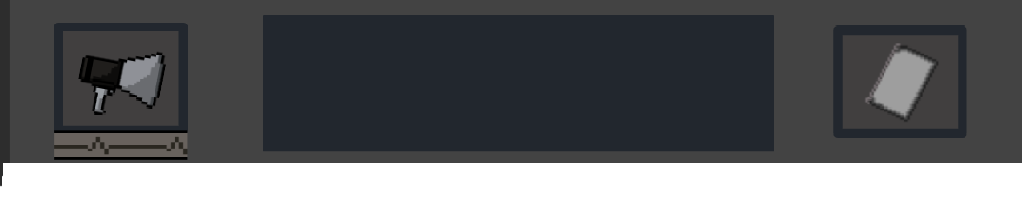
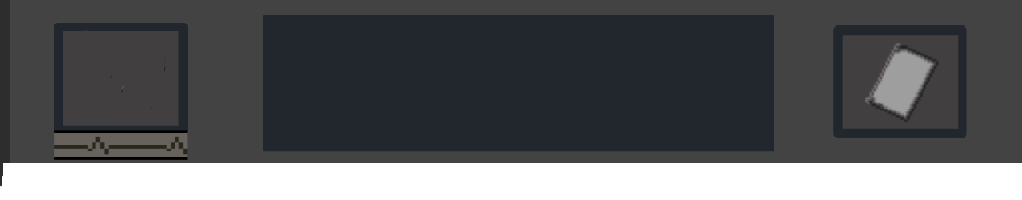
animacion reloj

Changed region(s): [[0.0607, 0.27, 0.182, 0.57]]

diff --git a/demoPhaser/boot.js b/demoPhaser/boot.js
@@ -29,12 +29,14 @@ export default class Boot extends Phaser.Scene {
     this.load.image('menuprincipal', 'menuprincipal.png');
     this.load.image('menuopciones', 'menuopciones.png');
     this.load.image('creditos', 'creditos.png');
+    
 
     this.load.spritesheet('checkbox', 'checkbox.png', { frameWidth: 48, frameHeight: 48 });
     this.load.spritesheet('botones', 'botones.png', { frameWidth: 240, frameHeight: 48 });
     this.load.spritesheet('background', 'backgroundspritesheet.png', { frameWidth: 352, frameHeight: 352 });
     this.load.spritesheet('npcs', 'npcspritesheet.png', { frameWidth: 115, frameHeight: 224 });
     this.load.spritesheet('objects', 'objectsspritesheet.png', { frameWidth: 192, frameHeight: 192 });
+    this.load.spritesheet('clockanim','clockanim.png',{frameWidth: 110, frameHeight: 110 });
     
     this.load.setPath('sonidos/');
     this.load.audio('suspenseFondo', 'suspense.mp3');

diff --git a/demoPhaser/Utils/clock.js b/demoPhaser/Utils/clock.js
@@ -9,7 +9,7 @@
 
 import SelectKillerScene from "../Test/selectkillerscene.js";
 
-  const Total_Time = 2;
+  const Total_Time = 12;
 
 export default class Clock 
 {
@@ -59,13 +59,15 @@ q
     //Método para mostrar el tiempo en pantalla
     showTime(scenenow) 
     {   
-        this.label = null;
+
+        this.scene.scene.get(scenenow).add.sprite(45,35,'clockanim',[this.time]);
+       /* this.label = null;
         this.label = this.scene.scene.get(scenenow).add.text(10, 2, "",
         { fontFamily: 'Georgia, "Goudy Bookletter 1911", Times, serif' }).setDepth(1); 
         this.label.text = "        "; //Borra el tiempo anterior
         this.label = this.scene.scene.get(scenenow).add.text(10, 2, "",
     { fontFamily: 'Georgia, "Goudy Bookletter 1911", Times, serif' }).setDepth(1); 
-        this.label.text = "Time: " + this.time;
+        this.label.text = "Time: " + this.time;*/
     }
 
     outOfTime()

diff --git a/demoPhaser/End/goodend.js b/demoPhaser/End/goodend.js
@@ -3,5 +3,11 @@ import Wagon from "../Wagons/wagon.js";
 export default class GoodEnd extends Wagon {
     constructor() { 
       super('goodend', true,43, 41, 43, 'clasealta', 'locomotora',);
+      
+    }
+    spawnNPCs()
+    {this.game.sound.stopAll();
+      this.musica = this.sound.add('goodmusic', {volume: this.game.sound.volume * 0.5, loop: true});
+      this.musica.play(); 
     }
 }

diff --git a/demoPhaser/End/badend.js b/demoPhaser/End/badend.js
@@ -3,5 +3,12 @@ import Wagon from "../Wagons/wagon.js";
 export default class BadEnd extends Wagon {
     constructor() { 
       super('badend', true,43, 42, 43, 'clasealta', 'locomotora',);
+      
+    }
+    spawnNPCs()
+    {this.game.sound.stopAll();
+      this.musica = this.sound.add('badmusic', {volume: this.game.sound.volume * 0.5, loop: true});
+      this.musica.play(); 
+
     }
 }

diff --git a/demoPhaser/Wagons/wagon.js b/demoPhaser/Wagons/wagon.js
@@ -44,7 +44,7 @@ export default class Wagon extends Phaser.Scene {
     this.gomanager = this.scene.get('boot').gomanager;
 
    
-    
+    this.game.sound.stopAll();
     if(this.isPT)
 
     {
